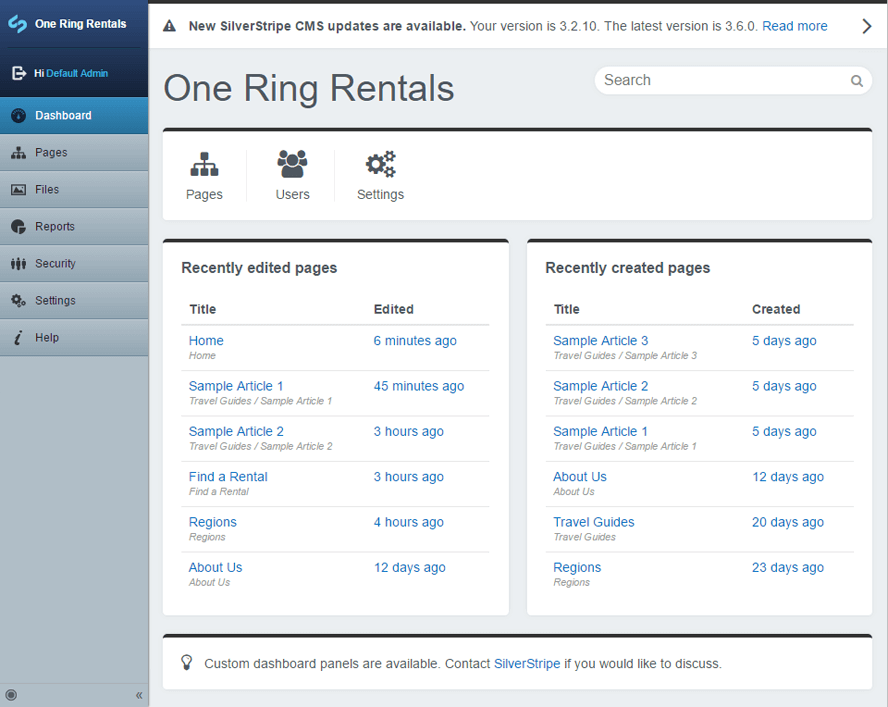
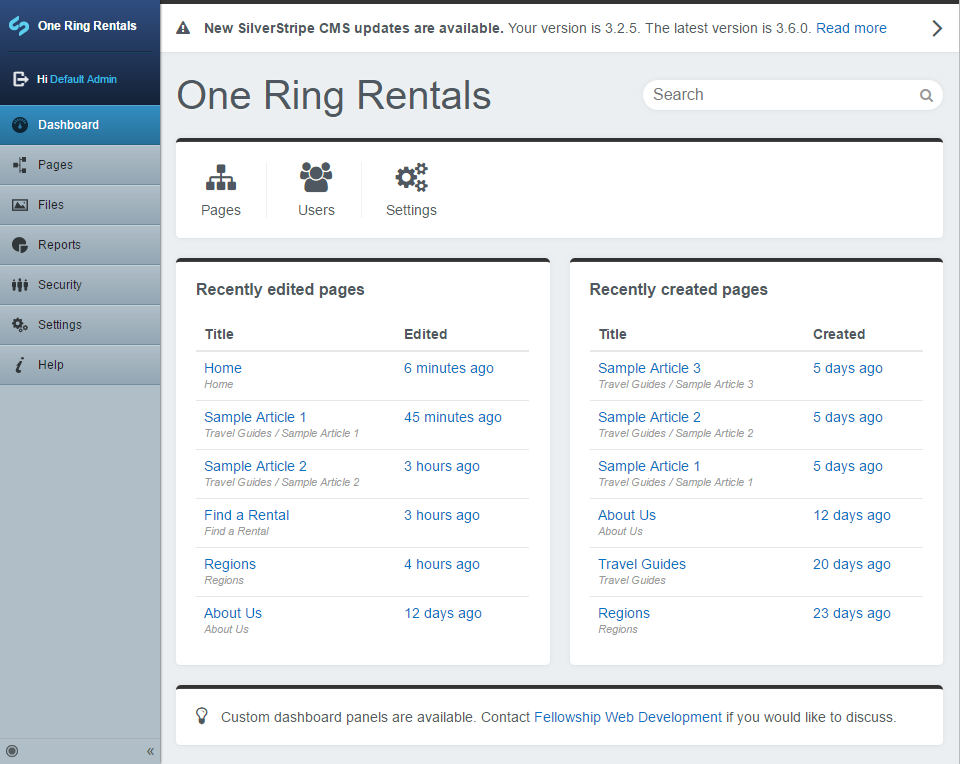
Adding panel accent colour config screenshot.

diff --git a/docs/en/index.md b/docs/en/index.md
@@ -18,8 +18,9 @@ By default the `UpdatePanel` and `MoreInformationPanel` tell the user to contact
 DashboardAdmin:
   contact_email: 'email@example.com'
   contact_name: 'Developer Name'
-  panel_accent_colour: '#0093d1'
+  panel_accent_colour: '#efbc2a'
 ```
+![Dashboard module customisation screenshot](docs/en/_images/dashboard-module-screenshot-blue.png)
 
 ## Subsite compatibility
 
